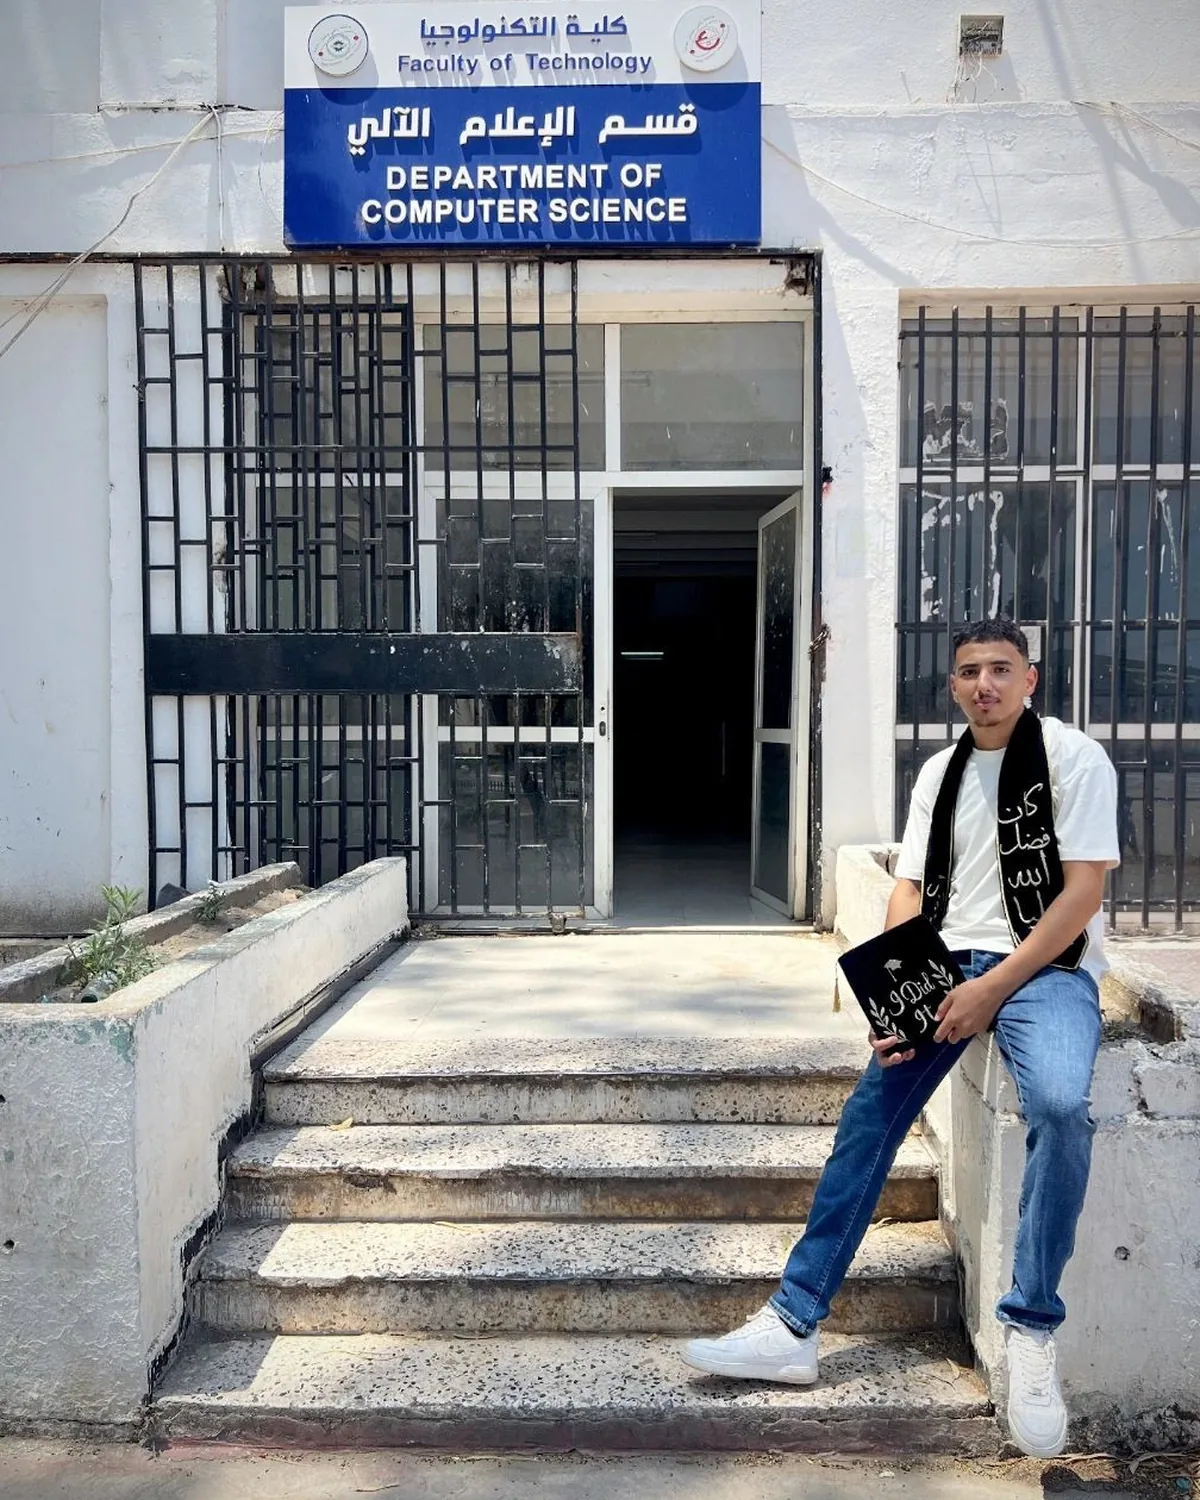
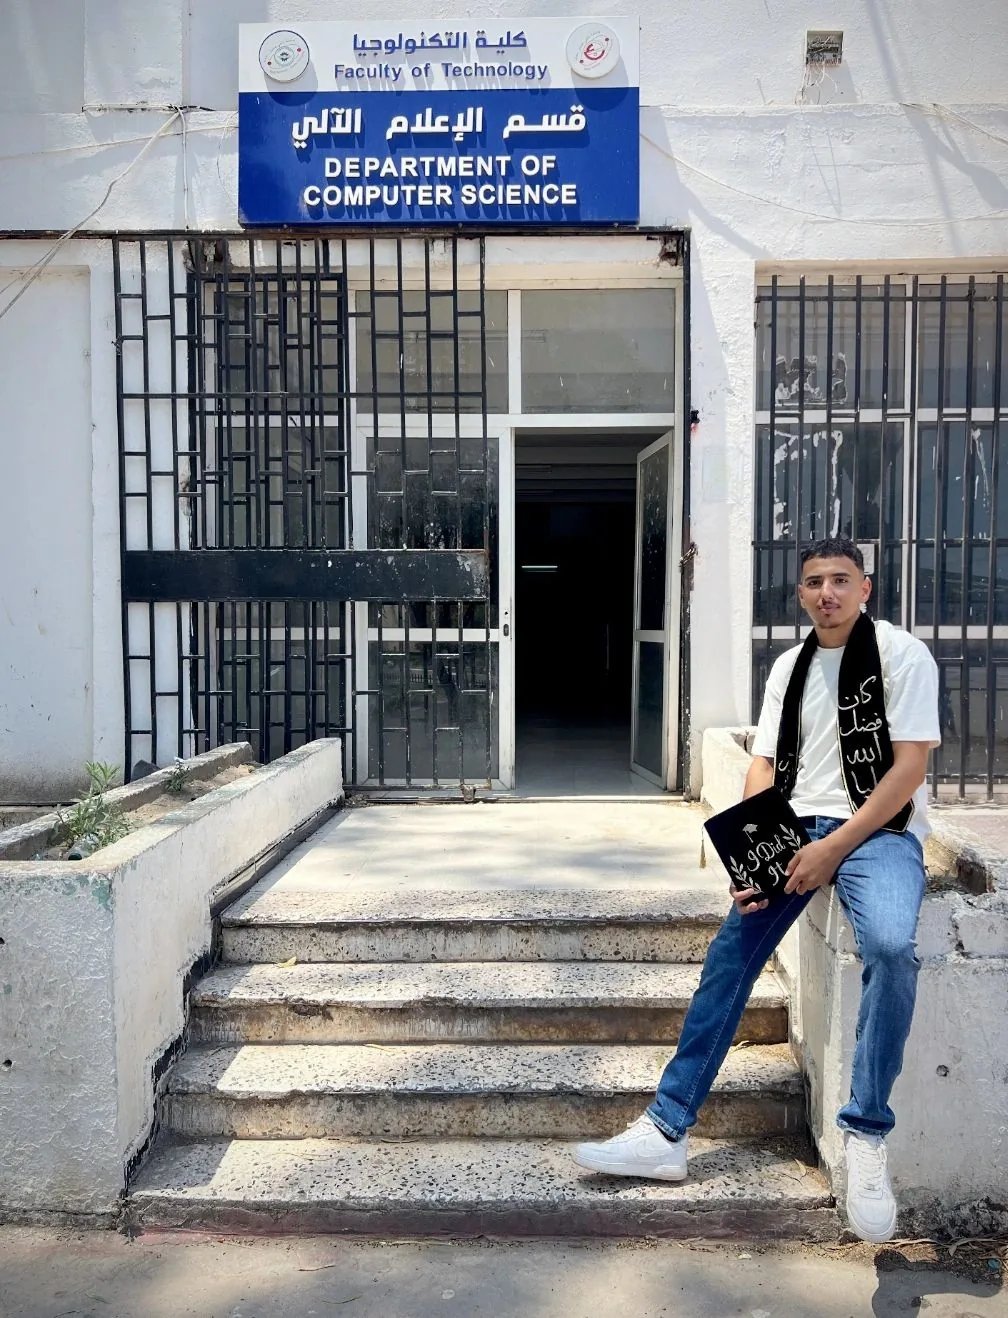
Show the experience photographs whole, in smaller cards
No more cropping to 4:5: each photo keeps its own frame and aspect ratio,
with its pixel size in the content so the card holds its shape before
the file loads. The card shrinks to a 15rem snapshot on the right edge
and the text column widens to meet it.

diff --git a/src/components/experience.tsx b/src/components/experience.tsx
@@ -59,7 +59,7 @@ export default function Experience() {
                 <div
                   className={
                     entry.image
-                      ? "md:col-span-5 md:col-start-4"
+                      ? "md:col-span-6 md:col-start-4"
                       : "md:col-span-9 md:col-start-4"
                   }
                 >
@@ -72,20 +72,26 @@ export default function Experience() {
                 {/* Placed between heading and body in the DOM so a phone
                     reads period, role, photo, text — the order a magazine
                     page reads in — and pinned to the right column on wide
-                    screens, spanning both text rows. */}
+                    screens, spanning both text rows.
+
+                    The photo is shown whole, at its own aspect ratio, in a
+                    small card: a snapshot pinned beside the entry, not a
+                    hero image. Cropping every photo to one shape lost the
+                    edges of every one of them. */}
                 {entry.image && (
-                  <figure className="max-w-sm md:col-span-4 md:col-start-9 md:row-span-2 md:row-start-1 md:max-w-none">
-                    <div className="rounded-xl bg-canvas p-2 shadow-[0_30px_60px_-32px_rgba(24,38,49,0.45)] ring-1 ring-line">
-                      <div className="relative aspect-[4/5] overflow-hidden rounded-lg bg-surface-2">
+                  <figure className="w-full max-w-[15rem] md:col-span-3 md:col-start-10 md:row-span-2 md:row-start-1 md:justify-self-end">
+                    <div className="rounded-xl bg-canvas p-1.5 shadow-[0_24px_48px_-28px_rgba(24,38,49,0.45)] ring-1 ring-line">
+                      <div className="overflow-hidden rounded-lg bg-surface-2">
                         <Image
                           src={entry.image.src}
                           alt={entry.image.alt}
-                          fill
-                          sizes="(min-width: 768px) 30vw, 24rem"
-                          className="object-cover transition-transform duration-700 group-hover:scale-[1.03]"
+                          width={entry.image.width}
+                          height={entry.image.height}
+                          sizes="15rem"
+                          className="block h-auto w-full transition-transform duration-700 group-hover:scale-[1.03]"
                         />
                       </div>
-                      <figcaption className="meta px-1 pb-1 pt-3 text-dim">
+                      <figcaption className="meta px-1 pb-1 pt-2.5 text-dim">
                         {entry.image.caption}
                       </figcaption>
                     </div>
@@ -95,7 +101,7 @@ export default function Experience() {
                 <div
                   className={
                     entry.image
-                      ? "md:col-span-5 md:col-start-4"
+                      ? "md:col-span-6 md:col-start-4"
                       : "md:col-span-9 md:col-start-4"
                   }
                 >

diff --git a/src/content/site.ts b/src/content/site.ts
@@ -558,9 +558,15 @@ export interface Experience {
   period: string;
   description: string;
   achievements: readonly string[];
-  /** A photograph from the time, shown 4:5 beside the entry. */
+  /**
+   * A photograph from the time, shown whole beside the entry — never
+   * cropped, so the card takes the photo's own shape. Width and height are
+   * the file's pixel size; they set the aspect ratio before the image loads.
+   */
   image?: {
     src: string;
+    width: number;
+    height: number;
     alt: string;
     caption: string;
   };
@@ -573,6 +579,8 @@ export const experiences: readonly Experience[] = [
     period: "May 2026 — Present",
     image: {
       src: "/experience/progix.webp",
+      width: 962,
+      height: 1240,
       alt: "A laptop showing a Google Meet call with the PROGIX team, eight faces on screen.",
       caption: "On a call with the PROGIX team",
     },
@@ -590,6 +598,8 @@ export const experiences: readonly Experience[] = [
     period: "Feb — Apr 2026",
     image: {
       src: "/experience/sonelgaz.webp",
+      width: 1086,
+      height: 716,
       alt: "Achraf at a desk in the Sonelgaz office, a desk phone and workstation beside him.",
       caption: "At the office, Sonelgaz Khenchela",
     },
@@ -606,6 +616,8 @@ export const experiences: readonly Experience[] = [
     period: "2026",
     image: {
       src: "/experience/msc.webp",
+      width: 1008,
+      height: 1318,
       alt: "Achraf in a graduation sash holding a cap that reads “I did it”, seated on the steps of the Department of Computer Science.",
       caption: "Graduation, Department of Computer Science",
     },
@@ -624,6 +636,8 @@ export const experiences: readonly Experience[] = [
     period: "2025",
     image: {
       src: "/experience/design.webp",
+      width: 1080,
+      height: 607,
       alt: "Achraf at a desk in a design studio, a “Graphic Design” sign on the wall behind him and a laptop open beside him.",
       caption: "At the studio",
     },
@@ -641,6 +655,8 @@ export const experiences: readonly Experience[] = [
     period: "2024",
     image: {
       src: "/experience/bsc.webp",
+      width: 808,
+      height: 1400,
       alt: "Achraf speaking into a microphone at a lectern beside the Algerian flag, an audience seated to the left.",
       caption: "Presenting at Badji Mokhtar University",
     },
